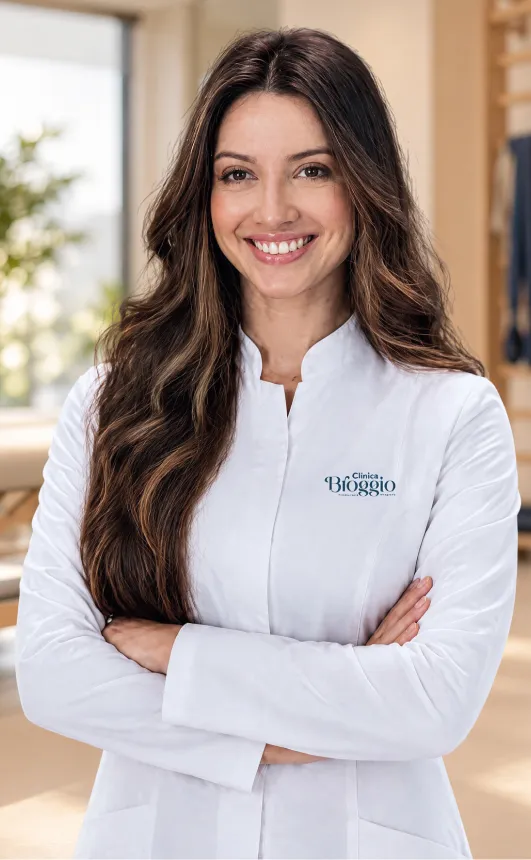
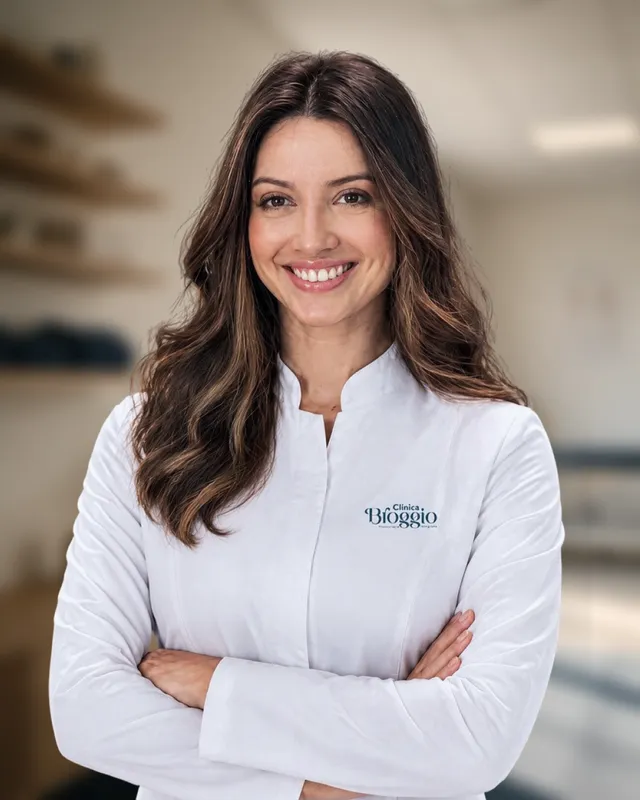
fix: foto de perfil da Dra. Lívia refeita a partir da nova foto da hero

diff --git a/acupuntura/index.html b/acupuntura/index.html
@@ -492,7 +492,7 @@
       <div class="profile-media">
         <picture>
           <source type="image/webp" srcset="../assets/img/acupuntura/perfil-livia.webp">
-          <img src="../assets/img/acupuntura/perfil-livia.jpg" alt="Dra. Lívia Broggio na Clínica Broggio" class="profile-image" width="531" height="860" loading="lazy">
+          <img src="../assets/img/acupuntura/perfil-livia.jpg" alt="Dra. Lívia Broggio na Clínica Broggio" class="profile-image" width="640" height="800" loading="lazy">
         </picture>
       </div>
 
